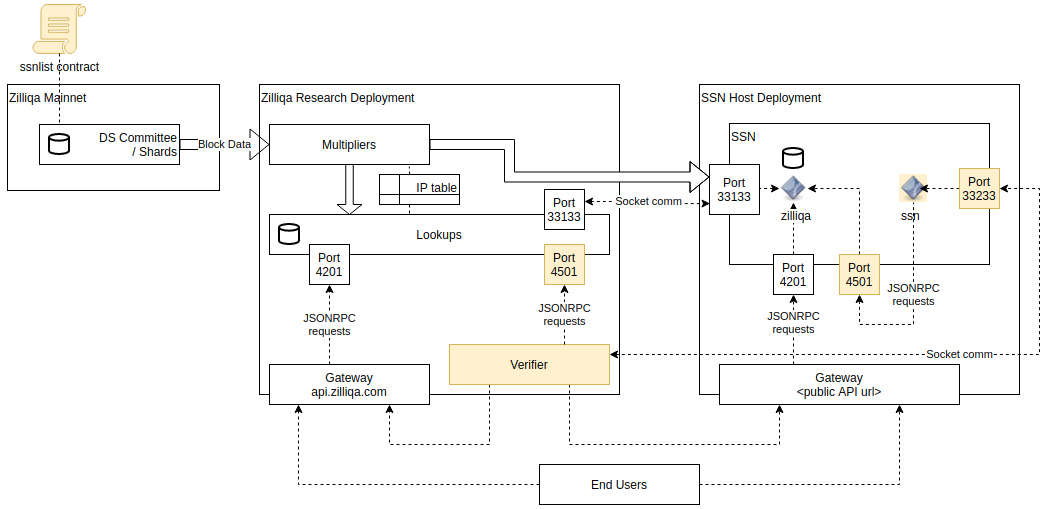
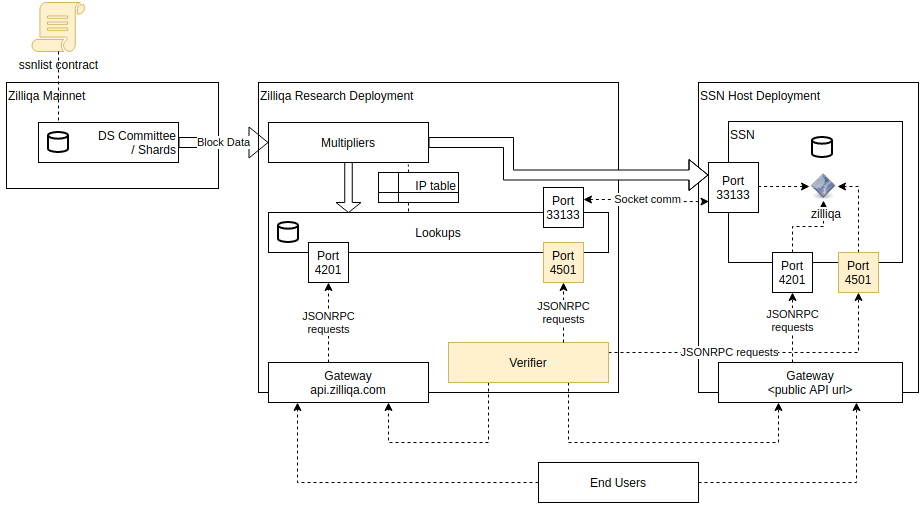
Updated after discussion comments

diff --git a/zips/zip-3.md b/zips/zip-3.md
@@ -57,8 +57,7 @@ The setup includes the following:
 3. A set of lookups provide the reference data to the Verifier, including publicly accessible data (through [api.zilliqa.com](https://api.zilliqa.com/)) and raw data with access limited to the Verifier.
 
 #### Within Hosting Entity
-1. A SSN node hosts a `zilliqa` instance that receives blockchain data from the multipliers.
-2. The same node also hosts a `ssn` instance that retrieves raw data from the `zilliqa` instance for the purpose of presenting proofs to the Verifier
+1. A SSN node acts as a typical seed node and receives blockchain data from the multipliers. It provides publicly accessible data through its own API address and raw data with access limited to the Verifier.
 
 ### C. Staking Proofs
 
@@ -77,7 +76,7 @@ SSN activation, which can be done anytime after, requires the SSN host to deposi
 
 The Verifier polls the SSN for raw blockchain data and API-retrievable data to effectively confirm that the SSN both stores the blockchain data and services API requests from end users.
 
-Raw blockchain data is accessible from the lookups on the Verifier's end and from the `zilliqa` process on the SSN host's end.
+Raw blockchain data is accessible from the lookups on the Verifier's end and from the SSN on the host's end.
 
 The diagram below shows the interaction between the different components for the storage and API checks.
 
@@ -216,9 +215,7 @@ transition drain_contract_balance ()
 
 #### Step 1 - Zilliqa Research sets up the staking components
 
-A dedicated machine running the `verifier` process is launched. A key pair is assigned to the Verifier.
-
-Zilliqa Research lookup nodes are configured to recognize the Verifier key, for use during JSONRPC requests via port 4401.
+A dedicated machine running the Verifier process is launched. A key pair is assigned to the Verifier.
 
 The `SSNList` smart contract is deployed and initialized with the address of the Verifier. The `update_minstake`, `update_maxstake`, and `update_admin` transitions are called to initialize the staking settings. The `deposit_funds` transition is also called to fund the contract for the rewards distribution.
 
@@ -230,19 +227,13 @@ The entity intending to host a SSN registers with the Zilliqa Research team. Zil
 
 The `zilliqa` process is launched in the host machine in the manner typical of a seed node. As a typical seed node, the SSN should be able to service API requests at this point through the host's own API domain (akin to [api.zilliqa.com](https://api.zilliqa.com)).
 
-Additionally, a separate `ssn` process is launched in the same machine. A key pair is assigned to the `ssn`. The `zilliqa` process launched earlier should have been configured to recognize this key, for use during JSONRPC requests via port 4401.
+#### Step 4 - Zilliqa Research adds SSN to smart contract
 
-Upon startup, the `ssn` process initiates contact with the Verifier node.
-
-#### Step 4 - Verifier adds SSN to smart contract
-
-The Verifier and SSN perform the initial checks on both the blockchain data stored in the SSN as well as the SSN's ability to respond to API requests. Upon successful completion, the Verifier calls the `add_ssn` transition in the smart contract, which creates an entry for the SSN in the `ssnlist` table in the contract. The `ip_addr` in the entry is initialized to the IP address of the SSN. The `blocknumber_when_alive_status_updated` is initialized to the Tx epoch number when the entry was created.
+Zilliqa Research calls the `add_ssn` transition in the smart contract, which creates an entry for the SSN in the `ssnlist` table in the contract. The `ip_addr` in the entry is initialized to the IP address of the SSN. The `blocknumber_when_alive_status_updated` is initialized to the Tx epoch number when the entry was created.
 
 #### Step 5 - Host deposits funds for staking
 
 A SSN in the `SSNList` contract with `stake_amount` falling below `minstake` is not considered active at this point, and is ignored by the Verifier. The host must activate its SSN by depositing funds into the contract through a single call to the `stake_deposit` transition.
-
-> Note: Stake fund depositing can only be performed once. In order to change the staked amount, the host will need to de-register and register back the SSN.
 
 #### Step 6 - Verifier performs regular checks
 
@@ -272,8 +263,6 @@ Finally, the entity requests the Zilliqa Research team to remove the IP address 
 
 SSN verification involves the checks listed in the [Staking Proofs](#c-staking-proofs) section.
 
-Verification is initially performed during the handshake period between the Verifier and the SSN, which ends with the addition of the SSN (still inactive at this point) into the smart contract.
-
 After SSN activation, verification is done a maximum of `NUM_OF_RUNS_EACH_REWARD_CYCLE` times within the span of `NUM_OF_DSBLOCK_EACH_REWARD_CYCLE` DS epochs, with the verification runs done at randomized intervals. Each verification result is recorded within the smart contract (i.e., through the `alive_status` field). The Verifier tracks the number of verification runs performed during the current reward cycle, and this count is applied across all SSNs.
 
 After `NUM_OF_DSBLOCK_EACH_REWARD_CYCLE` DS epochs, the Verifier calls the smart contract to trigger the rewards distribution.
@@ -300,7 +289,7 @@ These are the parameter settings for **Phase 0** of the staking mechanism.
 
 | Parameter                     | Value        |
 | ----------------------------- | ------------ |
-| Number of SSNs                | 2            |
+| Minimum stake amount          | 10,000,000   |
 | Maximum overall staked amount | 700,000,000  | 
 | Annual interest rate          | 10%          |
 | Rewarding cycle               | 15 DS blocks |
